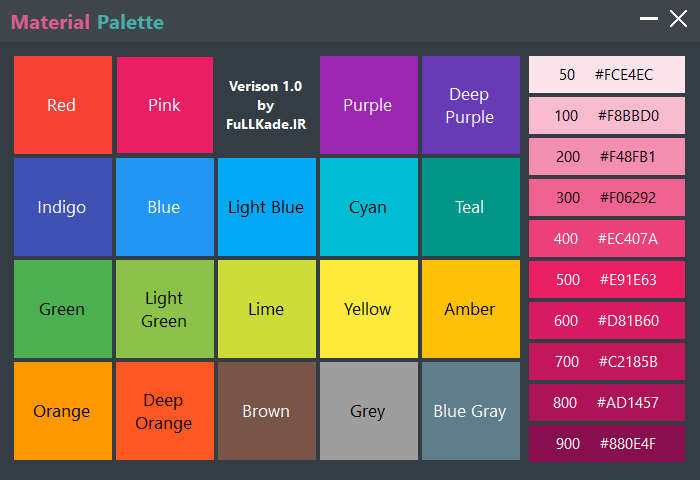
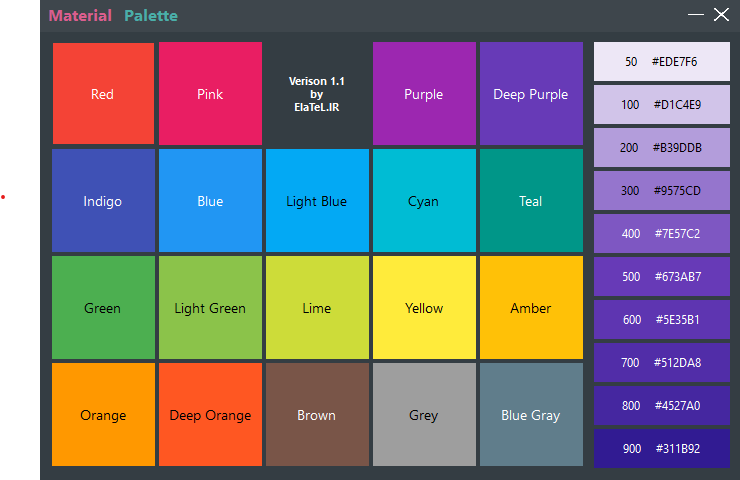
Dusted

diff --git a/MaterialDesignPallete/Form1.cs b/MaterialDesignPallete/Form1.cs
@@ -1,18 +1,15 @@
 using System;
 using System.Collections.Generic;
-using System.ComponentModel;
 using System.Data;
 using System.Drawing;
 using System.Linq;
-using System.Text;
-using System.Threading.Tasks;
 using System.Windows.Forms;
 
 namespace MaterialDesignPallete
 {
     public partial class Form1 : Form
     {
-        private const string THIRD_BUTTON_TEXT = "Verison 1.0\nby\nFuLLKade.IR";
+        private const string THIRD_BUTTON_TEXT = "Verison 1.1\nby\nElaTeL.IR";
         private const string COPIED_MESSAGE = "Copied!";
         private const int COPIED_INTERVAL = 300;
 

diff --git a/MaterialDesignPallete/MaterialColorExtensions.cs b/MaterialDesignPallete/MaterialColorExtensions.cs
@@ -1,9 +1,5 @@
-using System;
-using System.Collections.Generic;
-using System.Drawing;
-using System.Text;
+using System.Drawing;
 using System.Text.RegularExpressions;
-using System.Windows.Forms;
 
 namespace MaterialDesignPallete
 {

diff --git a/MaterialDesignPallete/Program.cs b/MaterialDesignPallete/Program.cs
@@ -1,7 +1,4 @@
 using System;
-using System.Collections.Generic;
-using System.Linq;
-using System.Threading.Tasks;
 using System.Windows.Forms;
 
 namespace MaterialDesignPallete

diff --git a/LICENSE.md b/LICENSE.md
@@ -1,6 +1,6 @@
-MIT License
+The MIT License (MIT)
 
-Copyright (c) [year] [fullname]
+Copyright (c) 2022 Hadi Akbarzadeh <https://elatel.ir>
 
 Permission is hereby granted, free of charge, to any person obtaining a copy
 of this software and associated documentation files (the "Software"), to deal
@@ -9,13 +9,13 @@ to use, copy, modify, merge, publish, distribute, sublicense, and/or sell
 copies of the Software, and to permit persons to whom the Software is
 furnished to do so, subject to the following conditions:
 
-The above copyright notice and this permission notice shall be included in all
-copies or substantial portions of the Software.
+The above copyright notice and this permission notice shall be included in
+all copies or substantial portions of the Software.
 
 THE SOFTWARE IS PROVIDED "AS IS", WITHOUT WARRANTY OF ANY KIND, EXPRESS OR
 IMPLIED, INCLUDING BUT NOT LIMITED TO THE WARRANTIES OF MERCHANTABILITY,
 FITNESS FOR A PARTICULAR PURPOSE AND NONINFRINGEMENT. IN NO EVENT SHALL THE
 AUTHORS OR COPYRIGHT HOLDERS BE LIABLE FOR ANY CLAIM, DAMAGES OR OTHER
 LIABILITY, WHETHER IN AN ACTION OF CONTRACT, TORT OR OTHERWISE, ARISING FROM,
-OUT OF OR IN CONNECTION WITH THE SOFTWARE OR THE USE OR OTHER DEALINGS IN THE
-SOFTWARE.
+OUT OF OR IN CONNECTION WITH THE SOFTWARE OR THE USE OR OTHER DEALINGS IN
+THE SOFTWARE.

diff --git a/README.md b/README.md
@@ -1,5 +1,5 @@
 # Material Design Pallete
-Desktop Material Design Pallete based on .NET Core
+Desktop Material Design Pallete based on .NET Core 3.1
 
 # Screenshots
 ![Main](Screenshots/1.PNG)
